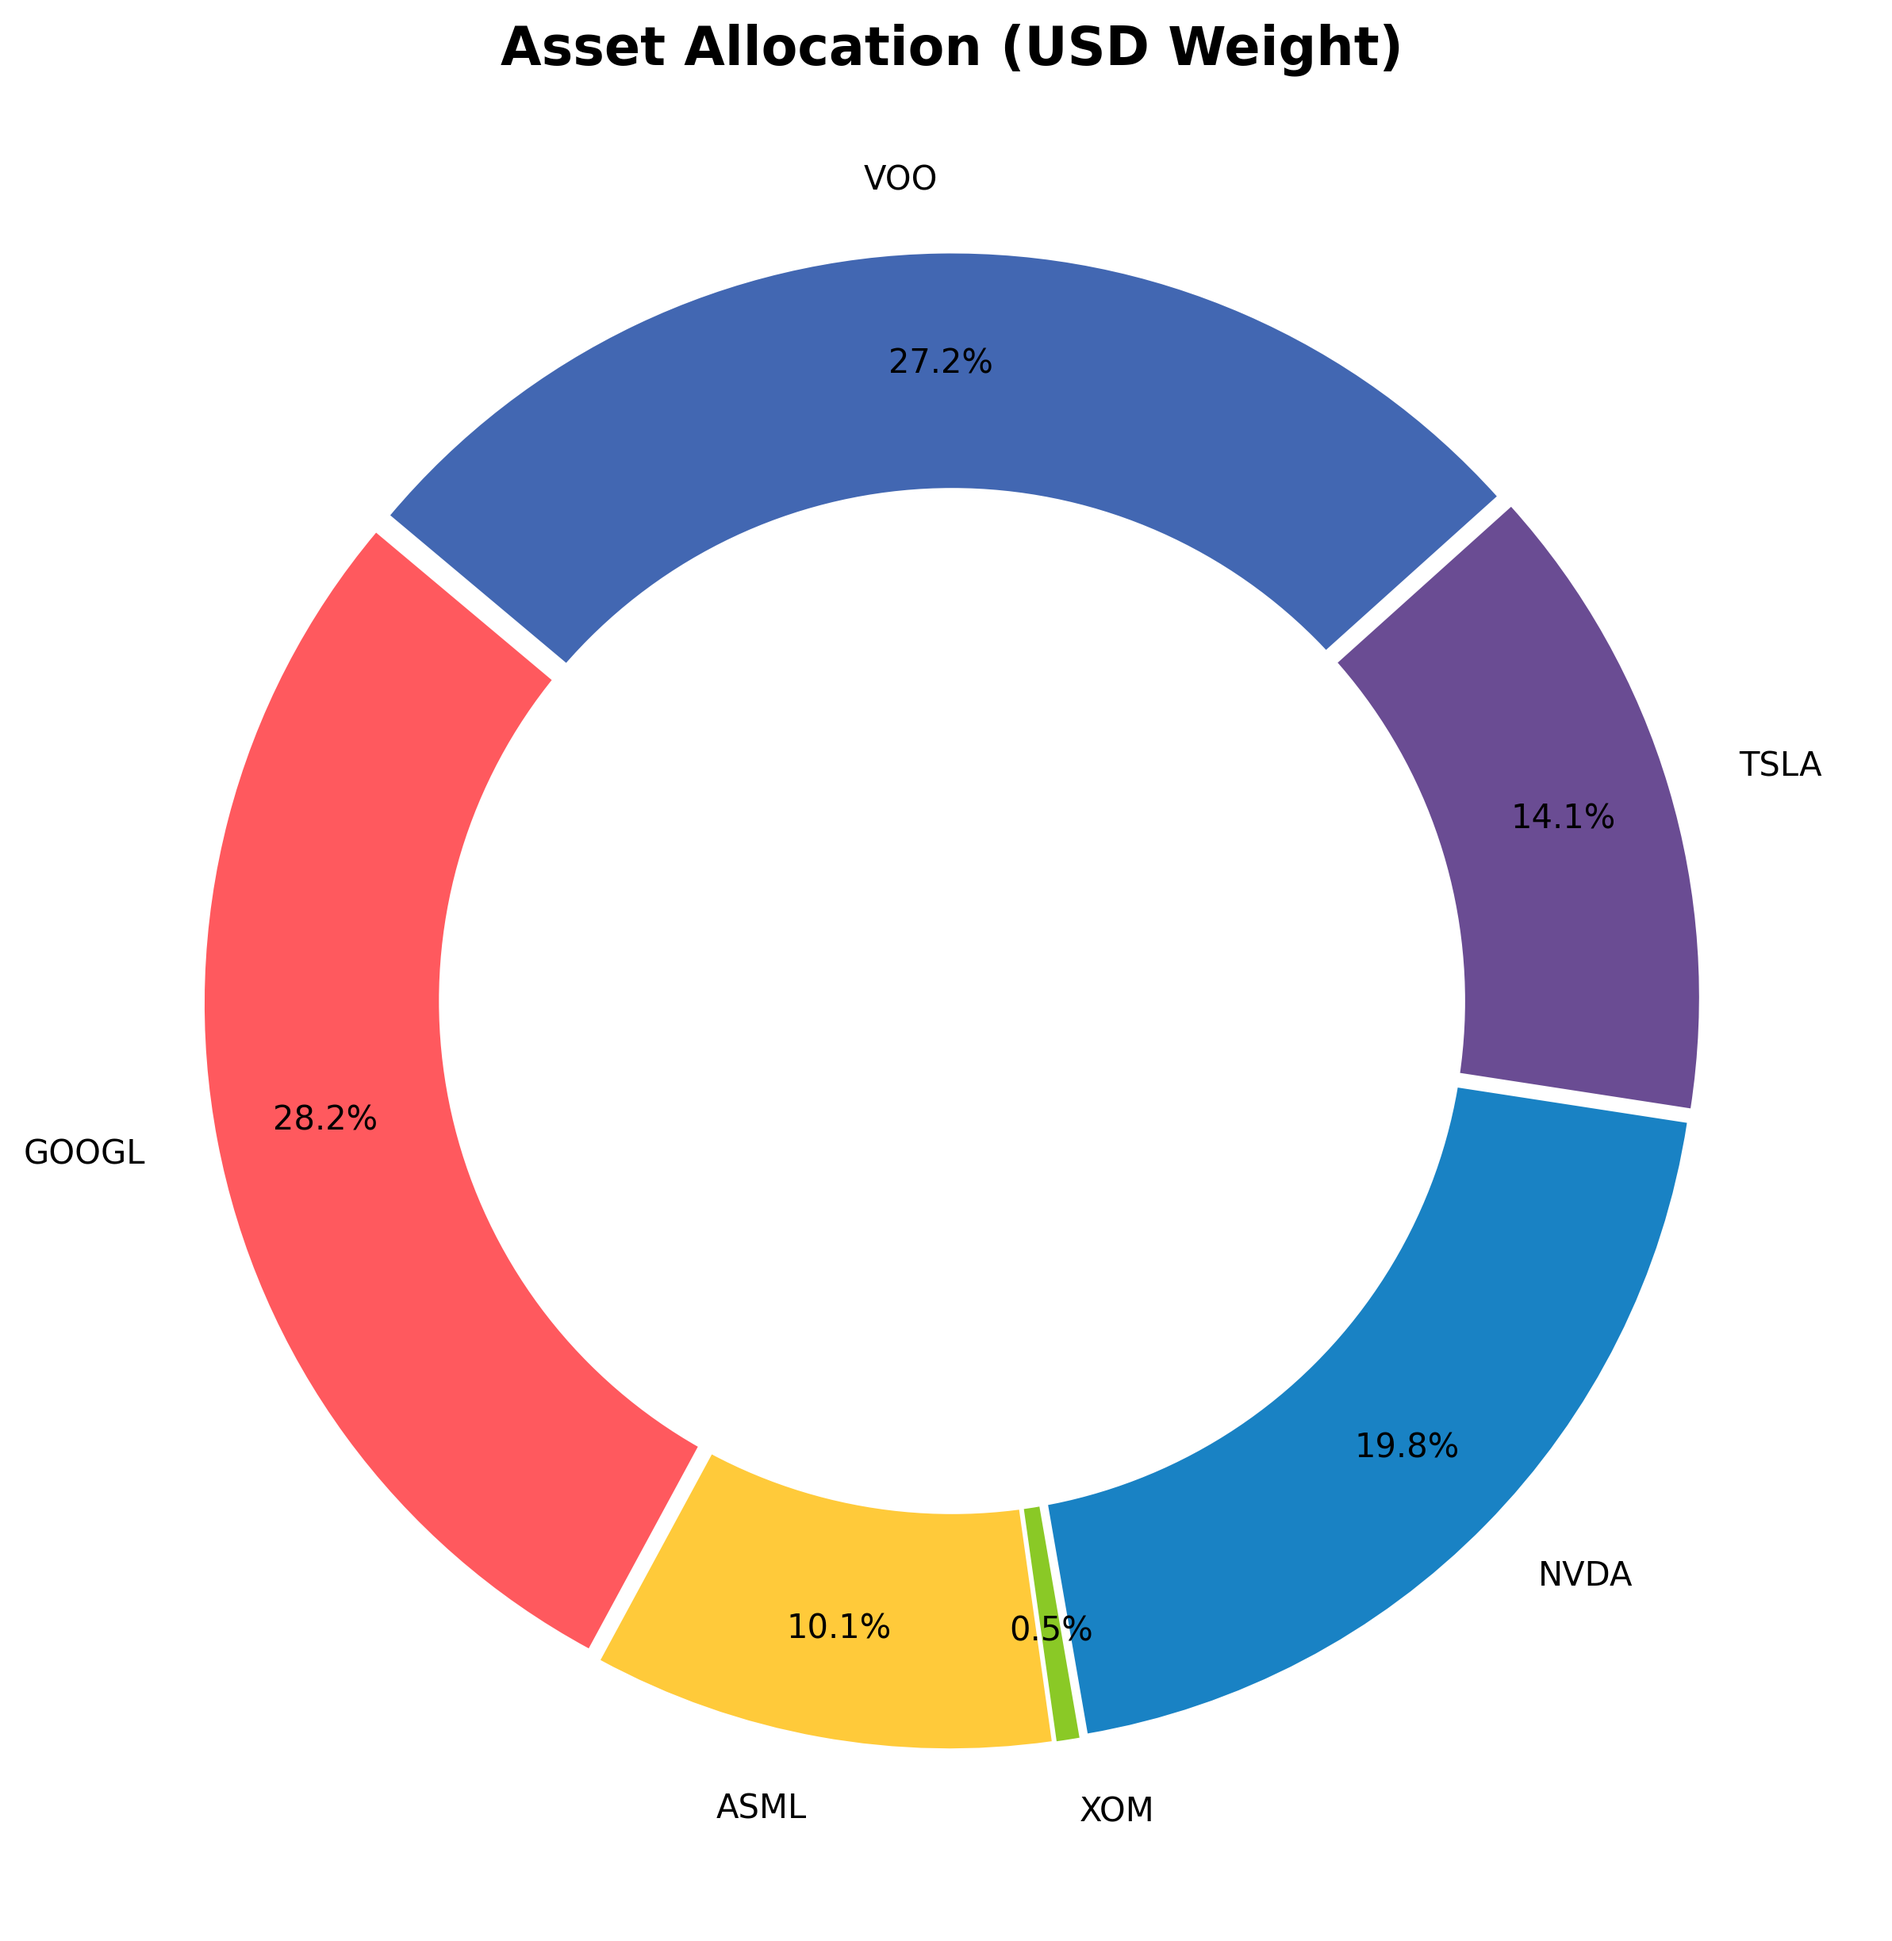
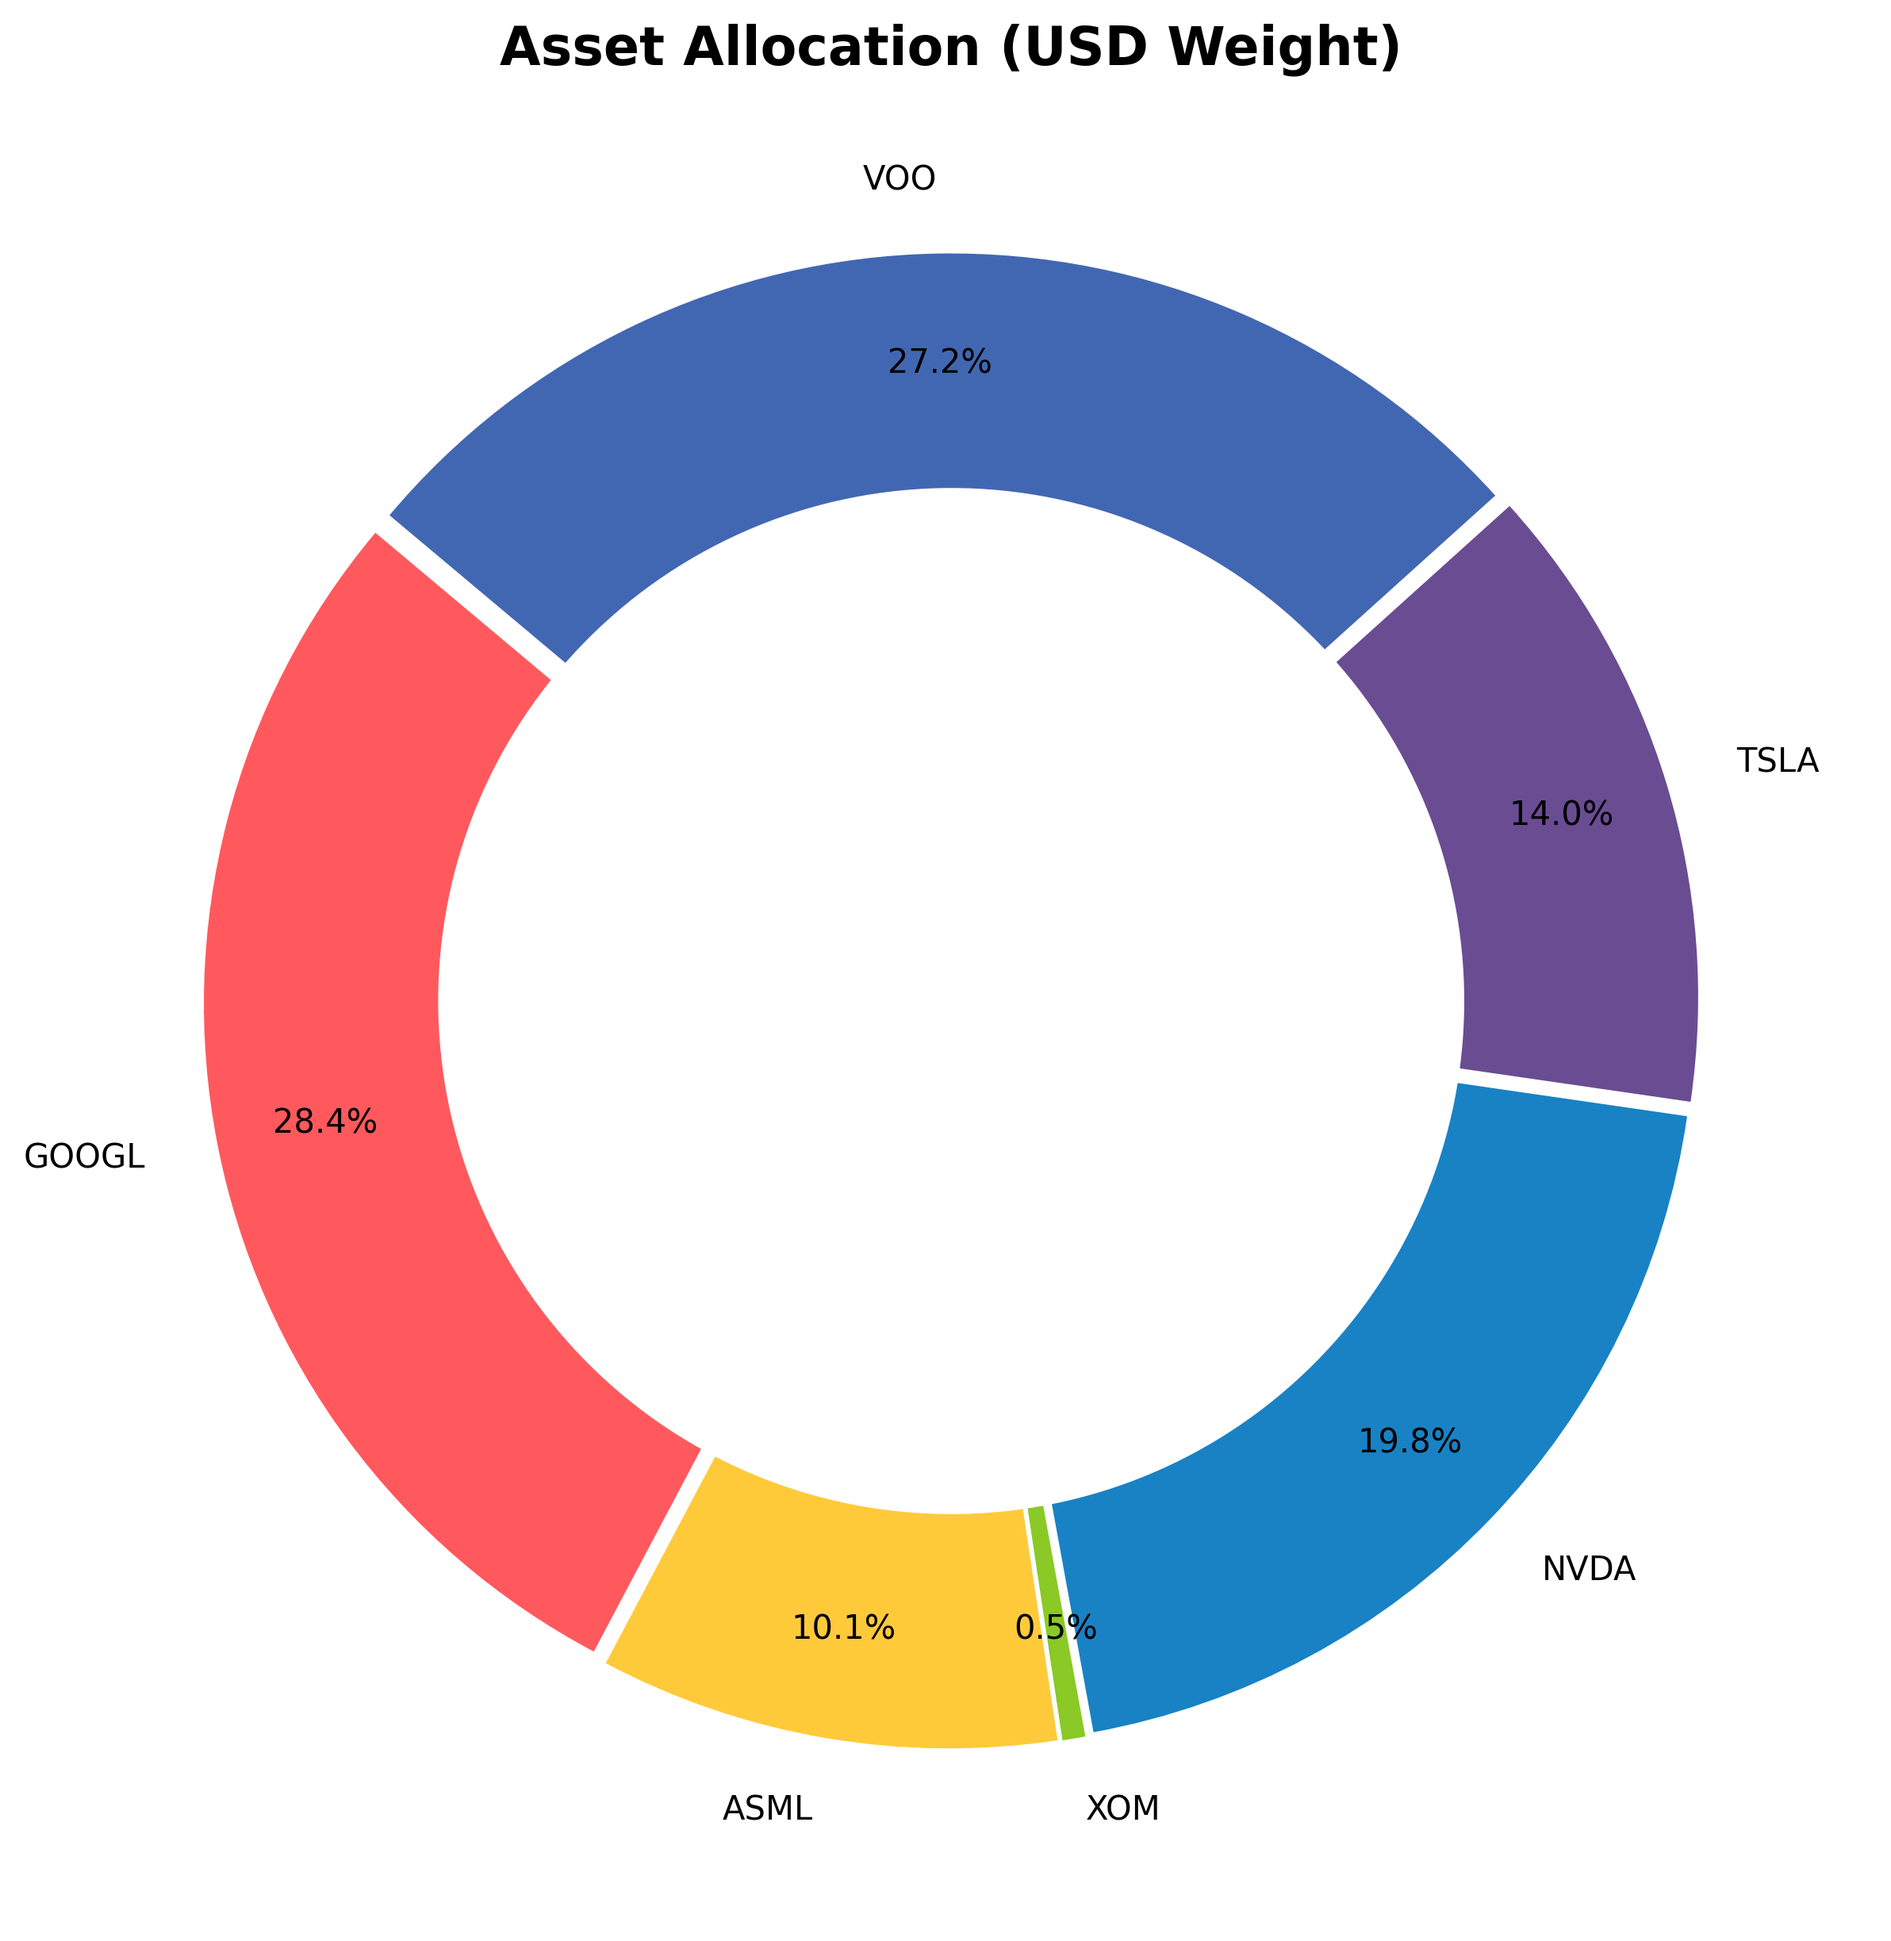
System Run: Analytics & Archive Update [skip ci]

diff --git a/README.md b/README.md
@@ -1,23 +1,23 @@
 # 📊 Portfolio Dashboard | מעקב תיק השקעות
-**Last Update:** 17/04/2026 19:59 | **USD/ILS:** ₪2.965
+**Last Update:** 17/04/2026 20:57 | **USD/ILS:** ₪2.965
 
 ## 💰 Portfolio Summary | סיכום התיק
 | Metric | Value | נתון |
 | :--- | :--- | :--- |
-| **Current Value** | `₪171,028` | **שווי נוכחי** |
-| **Total Invested** | `₪127,109` | **סך השקעה** |
-| **Total Profit/Loss** | `+34.55%` (₪43,919) | **רווח/הפסד כולל** |
-| **Daily Change** | `+1.50%` | **שינוי יומי** |
+| **Current Value** | `₪170,820` | **שווי נוכחי** |
+| **Total Invested** | `₪127,100` | **סך השקעה** |
+| **Total Profit/Loss** | `+34.40%` (₪43,720) | **רווח/הפסד כולל** |
+| **Daily Change** | `+1.77%` | **שינוי יומי** |
 
 ## 📜 Holdings | פירוט החזקות
 | Ticker | Shares | Avg. Cost | Current Price | P&L % | P&L ILS |
 | :--- | :--- | :--- | :--- | :--- | :--- |
-| GOOGL | 48 | $187.99 | $339.08 | 🟢 +80.37% | ₪21,502 |
-| ASML | 4 | $934.51 | $1,460.07 | 🟢 +56.24% | ₪6,233 |
-| XOM | 2 | $126.08 | $144.97 | 🟢 +14.98% | ₪112 |
-| NVDA | 57 | $148.62 | $200.75 | 🟢 +35.08% | ₪8,810 |
-| TSLA | 20 | $436.45 | $406.32 | 🔴 -6.90% | ₪-1,787 |
-| VOO | 24 | $527.38 | $654.54 | 🟢 +24.11% | ₪9,048 |
+| GOOGL | 48 | $187.99 | $340.43 | 🟢 +81.09% | ₪21,693 |
+| ASML | 4 | $934.51 | $1,458.20 | 🟢 +56.04% | ₪6,210 |
+| XOM | 2 | $126.08 | $145.26 | 🟢 +15.21% | ₪114 |
+| NVDA | 57 | $148.62 | $200.50 | 🟢 +34.91% | ₪8,767 |
+| TSLA | 20 | $436.45 | $402.35 | 🔴 -7.81% | ₪-2,022 |
+| VOO | 24 | $527.38 | $653.27 | 🟢 +23.87% | ₪8,957 |
 
 ## 📈 Charts | גרפים
 ![Performance](./data_hub/portfolio_performance.png)
